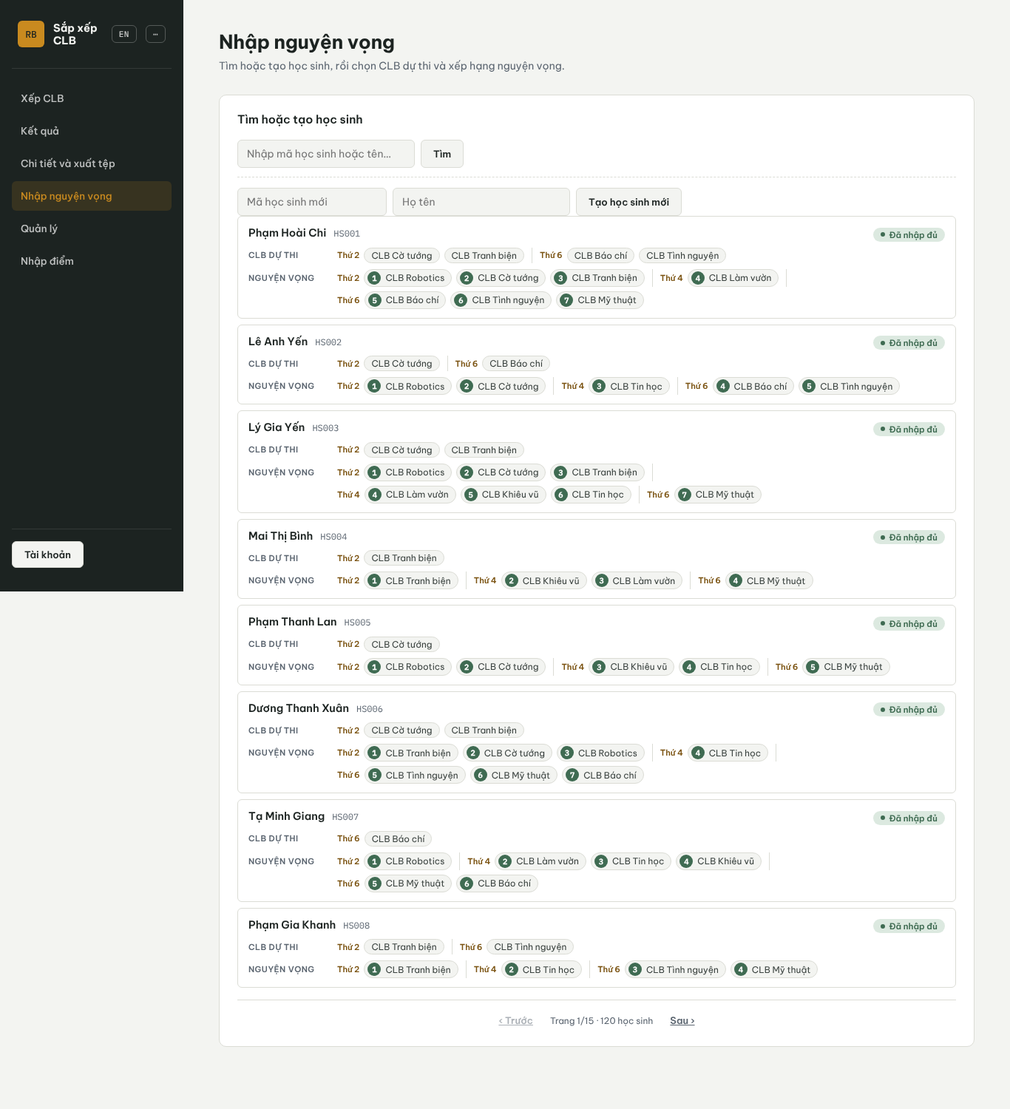
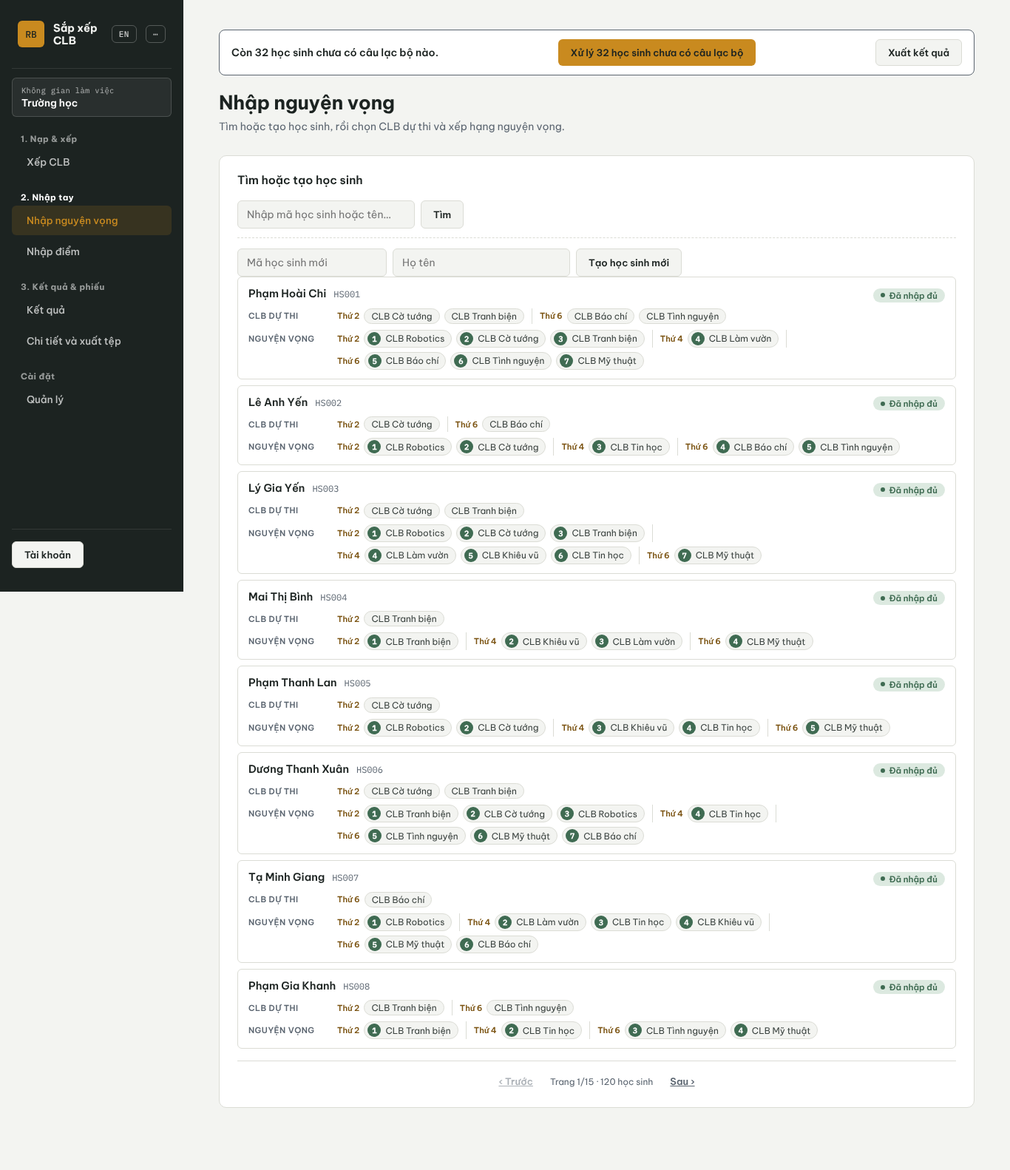
UX1A-L8-A: tài liệu, ảnh chụp, bảng Sau đo được

diff --git a/i18n_loi.js b/i18n_loi.js
@@ -1311,8 +1311,8 @@ window.I18N_ERROR_MESSAGES = {
     "en": "Appeal not accepted: {person_l} {student_id} has no result for session {buoi} yet."
   },
   "so_nhap_canh_bao_wharton_trong": {
-    "vi": "{n} {person_l} (ví dụ {vd}) có từ hai {slot_l} trong cùng một buổi mà chưa điền điểm quyết tâm nào, nên lần chạy xếp sẽ bị chặn. Cách sửa: điền đủ 100 điểm cho mỗi nhóm trong sổ rồi nhập lại, hoặc tắt điểm quyết tâm ở Không gian làm việc → ⋯ → Tính năng sau khi xếp….",
-    "en": "{n} {person_l}(s) (for example {vd}) have two or more {slot_l}s in the same session with no commitment points filled in, so the allocation run will be blocked. To fix it: fill in 100 points for each group in the workbook and import again, or turn commitment points off in Workspace → ⋯ → After-allocation features…."
+    "vi": "{n} {person_l} (ví dụ {vd}) có từ hai {slot_l} trong cùng một buổi mà chưa điền điểm quyết tâm nào, nên lần chạy xếp sẽ bị chặn. Cách sửa: điền đủ 100 điểm cho mỗi nhóm trong sổ rồi nhập lại, hoặc chọn «Chỉ xếp thứ tự» ở Cài đặt (nếu sổ dùng cột Huy chương thì bật chế độ huy chương ở Cài đặt).",
+    "en": "{n} {person_l}(s) (for example {vd}) have two or more {slot_l}s in the same session with no commitment points filled in, so the allocation run will be blocked. To fix it: fill in 100 points for each group in the workbook and import again, or choose \"Ranking only\" in Settings (if the book uses a Medal column, turn on medal mode in Settings)."
   },
   "phieu_nd_phieu_thieu_cau_2": {
     "vi": "{clb}: chưa trả lời câu 2 (mở thêm nhóm được không): không phân loại được, đã bỏ qua",

diff --git a/docs/ke_hoach/ux/chup_luong_chinh.py b/docs/ke_hoach/ux/chup_luong_chinh.py
@@ -1,23 +1,95 @@
-"""UX1a: chụp màn hình luồng thật bằng Chromium (dữ liệu MÔ PHỎNG, hạt giống 42). Ảnh ghi vào docs/ke_hoach/ux/anh/."""
-import os, sys, tempfile
+"""UX1a/UX1A-L8: chụp màn hình luồng thật bằng Chromium VÀ đếm số lần bấm (dữ liệu MÔ PHỎNG, hạt giống 42).
+Ảnh ghi vào docs/ke_hoach/ux/anh/. Không đụng 04_phieu.png / phieu_mau.pdf (chup_phieu.py, nhóm B).
+
+    python docs/ke_hoach/ux/chup_luong_chinh.py
+
+In ra số lần bấm ĐO ĐƯỢC cho: (1) quản trị nạp -> chạy -> tải kết quả; (2) quản trị xử lý em chưa có CLB;
+(3) giáo viên chủ nhiệm lấy kết quả lớp; (4) học sinh tự tra cứu. Một lần "chọn tệp" tính là một lần bấm."""
+import os, sys, tempfile, base64
 GOC=os.path.dirname(os.path.dirname(os.path.dirname(os.path.dirname(os.path.abspath(__file__))))); sys.path.insert(0,GOC)
 from api import PipelineAPI; import browser_host
 from playwright.sync_api import sync_playwright
-OUT=os.path.join(os.path.dirname(os.path.abspath(__file__)), "anh"); d=tempfile.mkdtemp()
-api=PipelineAPI(os.path.join(d,"app.db"))
-url=browser_host.serve(api,GOC,"index.html",open_browser=False)
-pw=sync_playwright().start(); br=pw.chromium.launch(executable_path=os.environ.get("CHROMIUM") or None,args=["--no-sandbox"])
-page=br.new_page(locale="vi-VN",viewport={"width":1366,"height":800}); page.goto(url); page.wait_for_selector("#dropZone")
-page.set_input_files("#fileAny", GOC+"/du_lieu_test/SO_NHAP_DQT_120HS_HOP_LE.xlsx")  # click 1 (chọn tệp)
+OUT=os.path.join(os.path.dirname(os.path.abspath(__file__)), "anh")
+SO=GOC+"/du_lieu_test/SO_NHAP_DQT_120HS_HOP_LE.xlsx"
+os.environ["RBDA_THU_MUC_TAI_VE"]=tempfile.mkdtemp()
+import workspace as ws
+
+
+def moi_api(ten, co_ws=False):
+    d=tempfile.mkdtemp()
+    if co_ws:
+        goc=os.path.join(d,"goc"); os.makedirs(goc); slug=ws.tao(goc,"Trường học",None)
+        return PipelineAPI(ws.duong_dan_db(goc,slug), thu_muc_goc_ws=goc, ws_da_chon=True)
+    return PipelineAPI(os.path.join(d,"app.db"))
+
+
+def _chromium():
+    sys.path.insert(0, os.path.join(GOC, "tests"))
+    try:
+        from _trinh_duyet import CHROMIUM
+        return CHROMIUM
+    except Exception:
+        return None
+
+
+pw=sync_playwright().start(); br=pw.chromium.launch(executable_path=os.environ.get("CHROMIUM") or _chromium(),args=["--no-sandbox"])
+def trang(api, vp=(1366,800)):
+    url=browser_host.serve(api,GOC,"index.html",open_browser=False)
+    p=br.new_page(locale="vi-VN",viewport={"width":vp[0],"height":vp[1]}); p.goto(url); p.wait_for_selector("#dropZone", state="attached"); p.wait_for_timeout(600)
+    return p
+
+# ---- 1. Quản trị: nạp -> chạy -> tải kết quả (và xử lý em chưa có CLB), có không gian làm việc để chụp Cài đặt
+api=moi_api("a", co_ws=True); page=trang(api); lan=0
+page.screenshot(path=OUT+"/01_trang_dau.png")
+page.set_input_files("#fileAny", SO); lan+=1                          # 1: chọn tệp
 page.wait_for_timeout(800); page.screenshot(path=OUT+"/05_sau_chon_tep.png")
-page.locator("#btnImportAll").click()  # click 2
-page.wait_for_function("()=>!document.getElementById('btnRun').disabled", timeout=30000)
-page.wait_for_timeout(800); page.screenshot(path=OUT+"/06_sau_nhap.png")
-page.locator("#btnRun").click()  # click 3
+page.locator("#btnImportAll").click(); lan+=1                          # 2: Nhập sổ
+page.wait_for_function("()=>document.getElementById('viecTiepTheo').dataset.trangThai==='chay'", timeout=30000)
+page.wait_for_timeout(500); page.screenshot(path=OUT+"/06_sau_nhap.png")
+page.locator("#viecTiepTheoNut").click(); lan+=1                       # 3: Chạy sắp xếp (nút của thanh)
+page.wait_for_function("()=>['xu_ly','xuat'].includes(document.getElementById('viecTiepTheo').dataset.trangThai)", timeout=60000)
+page.wait_for_timeout(1200); page.screenshot(path=OUT+"/07_sau_chay.png", full_page=True)
+trang_thai=page.evaluate("()=>document.getElementById('viecTiepTheo').dataset.trangThai")
+nut2="#viecTiepTheoNut2" if trang_thai=="xu_ly" else "#viecTiepTheoNut"
+page.locator(nut2).click(); lan+=1                                     # 4: Xuất kết quả
+page.wait_for_function("()=>document.getElementById('xuatFeedback').textContent.trim()!==''", timeout=30000)
+print("QUAN TRI nap->chay->tai ket qua: %d lan bam (trang thai sau chay: %s)"%(lan,trang_thai))
+page.wait_for_timeout(600); page.screenshot(path=OUT+"/02_co_dl_others.png")
+# em chưa có CLB: một lần bấm trên thanh
+page.reload(); page.wait_for_selector("#dropZone"); page.wait_for_function("()=>document.getElementById('viecTiepTheo').dataset.trangThai==='xu_ly'")
+page.locator("#viecTiepTheoNut").click()
+page.wait_for_selector("#chuaCoChoPanelBody", state="visible"); page.wait_for_timeout(900)
+print("QUAN TRI xu ly em chua co CLB: 1 lan bam tren thanh (sau khi chay)")
+page.screenshot(path=OUT+"/02_co_dl_chua_co_cho.png")
+for tab,ten in (("results","02_co_dl_results"),("fallback","02_co_dl_fallback"),("admin","02_co_dl_admin")):
+    page.locator('.nav-item[data-tab="%s"]'%tab).click(); page.wait_for_timeout(900); page.screenshot(path=OUT+"/%s.png"%ten, full_page=(tab!="admin"))
+page.locator("#ux1aHuyChuong").scroll_into_view_if_needed(); page.screenshot(path=OUT+"/11_cai_dat.png")
+page.evaluate("document.getElementById('ux1aNangCao').open=true"); page.locator("#gt2TieuChiPanel").scroll_into_view_if_needed(); page.wait_for_timeout(500)
+page.screenshot(path=OUT+"/08_tieu_chi.png")
+page.locator('.nav-item[data-tab="results"]').click(); page.wait_for_timeout(600)
+page.locator("#gtTim").fill("HS004"); page.wait_for_timeout(1200); page.screenshot(path=OUT+"/03_tra_cuu_HS004.png", full_page=True)
+page.locator("#btnWorkspace").click(); page.wait_for_timeout(600)
+page.locator("#wsBang tr .menu-khac > summary").first.click(); page.wait_for_timeout(400); page.screenshot(path=OUT+"/10_ws_menu.png")
+page.close()
+
+# ---- 2. Giáo viên chủ nhiệm: đăng nhập -> kết quả lớp mình
+api=moi_api("b"); 
+with open(SO,"rb") as f_so: api.import_so_nhap(base64.b64encode(f_so.read()).decode())
+api.run_pipeline(42)
+ma=[r["student_id"] for r in api.list_students_admin("",1,500)["data"]["rows"]]
+for i,sid in enumerate(sorted(ma)):
+    api.set_student_class(sid, "10A1" if i%2==0 else "10A2")
+api.tao_tai_khoan("quantri","matkhau-gia-1","quan_tri"); api.tao_tai_khoan("gv1","matkhau-gia-1","giao_vien"); api.dang_xuat(); api.dang_nhap("gv1","matkhau-gia-1")
+page=trang(api); page.wait_for_timeout(800)
+tab=page.evaluate("()=>document.querySelector('.nav-item.is-active').dataset.tab"); lan=0
+if page.locator('#kqTang1 [data-kq="lop"]').count(): page.locator('#kqTang1 [data-kq="lop"]').click(); lan+=1
 page.wait_for_timeout(500)
-if page.locator("#runConfirmBar").count(): print("co thanh xac nhan")
-page.wait_for_function("()=>document.getElementById('btnRun').textContent.indexOf('Đang')<0", timeout=60000)
-page.wait_for_timeout(1500); page.screenshot(path=OUT+"/07_sau_chay.png", full_page=True)
-print("tab dang mo:", page.evaluate("()=>document.querySelector('.nav-item.is-active').dataset.tab"))
-print("toast:", page.evaluate("()=>[...document.querySelectorAll('.toast')].map(e=>e.innerText)"))
+if page.locator("#kqLop").count() and page.locator("#kqLop").is_visible():
+    page.locator("#kqLop").select_option(index=1); lan+=1
+page.wait_for_timeout(700); page.screenshot(path=OUT+"/09_gvcn_ket_qua_lop.png")
+print("GV CHU NHIEM: mo app dang o the '%s' (0 lan bam); xem ket qua lop mình: %d lan bam"%(tab,lan))
+page.close()
+
+# ---- 3. Học sinh tự tra cứu bằng mã: 2 lần bấm (không đổi)
+print("HOC SINH tu tra cuu bang ma: 2 lan bam (ma + Xem) — khong doi so voi truoc; do bang test_giao_dien_gt4_man_hoc_sinh.py")
 br.close(); pw.stop()

diff --git a/i18n_errors.py b/i18n_errors.py
@@ -1390,8 +1390,8 @@ MESSAGES = {
 
     # === SG-B: add below ===
     "so_nhap_canh_bao_wharton_trong": {
-        "vi": "{n} {person_l} (ví dụ {vd}) có từ hai {slot_l} trong cùng một buổi mà chưa điền điểm quyết tâm nào, nên lần chạy xếp sẽ bị chặn. Cách sửa: điền đủ 100 điểm cho mỗi nhóm trong sổ rồi nhập lại, hoặc tắt điểm quyết tâm ở Không gian làm việc → ⋯ → Tính năng sau khi xếp….",
-        "en": "{n} {person_l}(s) (for example {vd}) have two or more {slot_l}s in the same session with no commitment points filled in, so the allocation run will be blocked. To fix it: fill in 100 points for each group in the workbook and import again, or turn commitment points off in Workspace → ⋯ → After-allocation features….",
+        "vi": "{n} {person_l} (ví dụ {vd}) có từ hai {slot_l} trong cùng một buổi mà chưa điền điểm quyết tâm nào, nên lần chạy xếp sẽ bị chặn. Cách sửa: điền đủ 100 điểm cho mỗi nhóm trong sổ rồi nhập lại, hoặc chọn «Chỉ xếp thứ tự» ở Cài đặt (nếu sổ dùng cột Huy chương thì bật chế độ huy chương ở Cài đặt).",
+        "en": "{n} {person_l}(s) (for example {vd}) have two or more {slot_l}s in the same session with no commitment points filled in, so the allocation run will be blocked. To fix it: fill in 100 points for each group in the workbook and import again, or choose \"Ranking only\" in Settings (if the book uses a Medal column, turn on medal mode in Settings).",
     },
     "phieu_nd_phieu_thieu_cau_2": {
         "vi": "{clb}: chưa trả lời câu 2 (mở thêm nhóm được không): không phân loại được, đã bỏ qua",

diff --git a/mau_forms_thi_clb/tao_mau_forms.py b/mau_forms_thi_clb/tao_mau_forms.py
@@ -1064,8 +1064,8 @@ def ghi_cai_dat_sau_ket_qua(de):
     w("2. Kiosk: thẻ \"Chi tiết và xuất tệp\" → khung \"Phản hồi của học sinh\" → nút **Nạp biểu mẫu Sau khi xem kết quả**.")
     w("3. Một lần nạp ghi cả phản hồi và khiếu nại; nếu có lỗi giữa chừng thì không ghi gì. Hạn khiếu nại tính theo giờ hoàn "
       "thành do Forms ghi (cột Completion time), nên nạp muộn vẫn công bằng; tệp không có cột đó thì tính theo lúc nạp và có cảnh báo.")
-    w("4. Bật tính năng ở kiosk: Kiosk → Không gian làm việc → ⋯ → Tính năng sau khi xếp… (tick Phản hồi và/hoặc "
-      "Khiếu nại); tắt một cái thì phần đó bị bỏ qua kèm cảnh báo.")
+    w("4. Bật tính năng ở kiosk: chọn Huy chương ở Cài đặt, rồi thẻ \"Chi tiết và xuất tệp\" → khung Sau khi xếp → "
+      "Thu phản hồi và/hoặc Nhận khiếu nại; tắt một cái thì phần đó bị bỏ qua kèm cảnh báo.")
     if bm.dang_giu_ma():
         w("5. Giữ nguyên phần `[mã]` đầu mỗi câu và phần `(mã)` cuối mỗi lựa chọn: kiosk đọc theo các mã đó "
           "để biết câu nào là câu nào; sửa các mã này thì kiosk không nạp được câu đó.")

diff --git a/tests/test_fg7_bieu_mau_sau_ket_qua.py b/tests/test_fg7_bieu_mau_sau_ket_qua.py
@@ -168,7 +168,7 @@ def test_huong_dan_buoc_4_chi_duong_menu_khong_ten_khoa_cau_hinh(tmp_path):
     with open(tmp_path / tmf.TEN_CAI_DAT_SAU_KET_QUA, encoding="utf-8") as f:
         md = f.read()
     buoc4 = next(d for d in md.splitlines() if d.startswith("4. "))
-    assert "Tính năng sau khi xếp" in buoc4
+    assert "Sau khi xếp" in buoc4   # UX1A-L8: hộp "Tính năng sau khi xếp…" đã thành khung "Sau khi xếp" ở thẻ Chi tiết
     assert "fa_phan_hoi" not in buoc4 and "fa_khieu_nai" not in buoc4
 
 

diff --git a/docs/giai_trinh/KICH_BAN_DEMO.md b/docs/giai_trinh/KICH_BAN_DEMO.md
@@ -5,10 +5,10 @@
 
 Chuẩn bị: làm theo `HUONG_DAN_CHAY.md` mục 1; thư mục làm việc trống; tắt thông báo của máy.
 
-1. **Mở phần mềm** (`main.py`). Màn hình: thẻ Xếp, vùng thả tệp trống. Nói: phần mềm chạy ngoại tuyến, không có mô hình AI (`VAI_TRO_AI.md` mục 1).
+1. **Mở phần mềm** (`main.py`). Màn hình: thẻ Xếp, vùng thả tệp trống; thanh **Việc tiếp theo** ở đầu trang đang gợi ý "Nạp sổ". Nói: phần mềm chạy ngoại tuyến, không có mô hình AI (`VAI_TRO_AI.md` mục 1).
 2. **Nạp sổ nhập có lỗi** `du_lieu_test/SO_NHAP_CO_LOI_CO_Y.xlsx`. Màn hình: bảng năm lỗi kèm sheet, dòng, mã học sinh; "không nạp gì". Chỉ một lỗi, đọc thông báo.
-3. **Tạo không gian làm việc bật chế độ huy chương** (chuẩn bị trước buổi trình diễn): màn chọn không gian → **Tạo mới** → tích "Xếp theo loại CLB và huy chương" → mở không gian đó. Làm việc này **trước** khi nạp sổ; sổ mẫu là sổ huy chương và không chạy được ở không gian mặc định.
-4. **Nạp sổ đúng** `du_lieu_test/SO_NHAP_FA_MAU_120HS.xlsx`. Màn hình: "Sẵn sàng nhập: 8 CLB · 2 buổi · 120 học sinh · 829 nguyện vọng · 194 lượt thi", không lỗi chặn.
+3. **Tạo không gian làm việc bật chế độ huy chương** (chuẩn bị trước buổi trình diễn): màn chọn không gian → **Tạo mới** → ở bước 3 chọn lựa chọn **Huy chương** (hoặc mở không gian rồi chọn nó ở nhóm **Cài đặt**; bấm là lưu ngay, có Hoàn tác). Làm việc này **trước** khi nạp sổ; sổ mẫu là sổ huy chương và không chạy được ở không gian mặc định.
+4. **Nạp sổ đúng** `du_lieu_test/SO_NHAP_FA_MAU_120HS.xlsx` (nếu nạp sổ huy chương khi chế độ còn tắt, phần xem trước nói rõ và có nút **Bật chế độ huy chương**). Màn hình: "Sẵn sàng nhập: 8 CLB · 2 buổi · 120 học sinh · 829 nguyện vọng · 194 lượt thi", không lỗi chặn.
 5. **Bấm chạy xếp** (hạt giống 42). Màn hình: các bước `backup → validate → stb_lottery → rbda_cascade → write_results → export` đều xong, 120/120 học sinh có chỗ; không bị chặn, không cần "phóng" điểm.
 6. **Xem kết quả.** Mở thẻ Kết quả; nói: phần mềm dừng và nói rõ khi hồ sơ sai (đã thấy ở bước 2), còn sổ đúng thì chạy thẳng.
 7. **Tra cứu một học sinh nhận nguyện vọng 1 ở một buổi**: gõ `FA001`. Màn hình: Thứ 5 nhận nguyện vọng 1 (`THU_5_4`); Thứ 2 nhận nguyện vọng 2 (`THU_2_4`). Giải thích bằng câu cho học sinh này **đã có sẵn** ở chế độ huy chương (`get_ly_do_ket_qua`): đọc hai câu của buổi Thứ 2.

diff --git a/docs/ke_hoach/CLAUDE_CHI_TIET.md b/docs/ke_hoach/CLAUDE_CHI_TIET.md
@@ -23,7 +23,10 @@
 | `i18n_errors.py` → `tao_i18n_js.py` → `i18n_loi.js` | Thông báo lỗi song ngữ, **một nguồn** | `err`, `phan_hoi_ok`, `phan_hoi_loi` |
 | `browser_host.py`, `recovery.py`, `chan_doan.py`, `main.py` | Máy chủ dự phòng 127.0.0.1, phục hồi, log, điểm vào | |
 | `index.html`, `js/00…08_*.js`, `i18n.js`, `style.css` | Giao diện; gọi backend qua `window.pywebview.api.*`, trả `{ok, data, errors}` | |
-| `tests/` | 331 tệp `test_*.py`, 6.788 ca (`pytest --collect-only`, 17/11/2026, nhánh claude/gt-hoan-thien) | `test_pipeline_core.py`, `test_nhieu_buoi.py::TestTrungKhit`, `test_toi_uu_on_dinh.py`, `test_boc_tham.py`, … |
+| `js/01_khung.js` (UX1A-L2), `js/17_viec_tiep_theo.js` (L1), `js/18_cai_dat.js` (L2b) | UX1 điều hướng và cài đặt: 4 nhóm thanh bên (`capNhatNhomDieuHuong`, nhóm tự ẩn theo thuộc tính hidden / vai giáo viên; mọi `.nav-item[data-tab]` giữ nguyên); thanh "Việc tiếp theo" `#viecTiepTheo` (`capNhatViecTiepTheo`, 5 trạng thái, nút phụ `#viecTiepTheoNut2`); Cài đặt = ba thẻ (`ux1aTaoThe` dùng chung ở trang Cài đặt, mục ⋯ "Cài đặt…" và bước 3 trình tạo workspace; `ux1aVeCaiDatSong` lưu ngay + Hoàn tác; sửa tại chỗ `ux1aVeSanSang`; việc sau khi xếp `ux1aVeSauXep` ở thẻ Chi tiết, chỉ chế độ huy chương) | `ux1aTaoThe`, `ux1aVeCaiDatSong`, `ux1aKiemSanSang`, `ux1aVeSauXep`, `capNhatViecTiepTheo` |
+| `api_quan_ly.py` (UX1A-L2b) | `get_san_sang_huy_chuong` (đọc: CLB thiếu loại, buổi thiếu CLB Tự do, thiếu điểm sàn) · `dat_loai_clb` (ghi một CLB, dùng lại hàm ghi_thuoc_tinh_clb của fa_daa); cả hai trong `phan_quyen.py` | `get_san_sang_huy_chuong`, `dat_loai_clb` |
+| `so_nhap.py`, `api_nhap.py` (UX1A-L5, L5b) | Chỉ thông điệp và lớp đọc: `xem_truoc_so_nhap` nói sổ có cột Huy chương/Loại mà chế độ tắt (mã cảnh báo so_nhap_canh_bao_huy_chuong_che_do_tat, cờ co_cot_huy_chuong của dữ liệu đọc); `so_nhap.chuan_hoa_chu_huy_chuong` đổi Vàng/Bạc/Đồng về 60/30/10 khi chế độ huy chương (fa_daa) bật; `tao_so_nhap_mau(output_path, kieu)` | `chuan_hoa_chu_huy_chuong`, `tao_so_nhap_mau` |
+| `tests/` | 339 tệp `test_*.py`, 6.845 ca (`pytest --collect-only`, 18/11/2026, nhánh claude/ux1-a-giao-dien; UX1A thêm 5 tệp giao diện/backend: `test_giao_dien_ux1_*.py`, `test_ux1_*.py`) | `test_pipeline_core.py`, `test_nhieu_buoi.py::TestTrungKhit`, `test_toi_uu_on_dinh.py`, `test_boc_tham.py`, … |
 | `du_lieu_test/` (gồm `mo_phong_fa_daa.py`, FA-10: chỉ in bảng số, nhãn "SỐ LIỆU MÔ PHỎNG"), `mau_csv/`, `docs/`, `BAN_GIAO.md` | Bộ dữ liệu mô phỏng, script đo, mẫu nhập, tài liệu cơ chế, nhật ký 25 lỗi đã sửa | |
 
 ## 12 ngành đích (mã dùng trong mọi tệp)

diff --git a/poster/DU_LIEU_POSTER.md b/poster/DU_LIEU_POSTER.md
@@ -33,7 +33,7 @@ Mã ô ghi ngay trong khung và trong `poster_huong_dan.pdf`.
 │                │ │ H3 tên đề tài                            │ │                │
 ├────────────────┤ ├─────────────────────────┬────────────────┤ ├────────────────┤
 │ 02 Dùng thế nào│ │ [ảnh tab Kết quả]       │ S1  0          │ │ 06 Đã kiểm     │
-│ [ảnh Vận hành] │ │                         │ S2  0,14 giây  │ │    chứng       │
+│ [ảnh Xếp CLB] │ │                         │ S2  0,14 giây  │ │    chứng       │
 │ T2             │ │ G1                      │ S3  816        │ │ [2 biểu đồ] P5 │
 ├────────────────┤ ├─────────────────────────┴────────────────┤ │                │
 │ 03 Xem thử     │ │ 04 Cách hoạt động  [sơ đồ + bốc thăm]     │ ├────────────────┤
@@ -120,10 +120,10 @@ thay (sửa `stats` trong `tao_poster.py`).
 | ⚠ | **Chưa có khảo sát → không có số hiện trạng.** Viết điều em tự quan sát, dạng định tính. Không viết "đa số", "…% học sinh". Không nhắc tên trường. |
 | Bối cảnh có trong repo | Trường có cả CLB thi tuyển lẫn CLB không thi (lý do sinh ra lớp 4 — `CO_CHE_THUAT_TOAN.md`); cách xét thay thế là xét theo thứ tự đăng ký (lớp 1) |
 
-### Ảnh tab Vận hành (đã có) + T2 · Dùng thế nào
+### Ảnh thẻ Xếp CLB (đã có) + T2 · Dùng thế nào
 | | |
 |---|---|
-| Ảnh | `hinh/giao_dien_van_hanh.png` — màn hình Vận hành thật |
+| Ảnh | `hinh/giao_dien_van_hanh.png` — màn hình Xếp CLB thật (nhóm "1. Nạp & xếp", có thanh "Việc tiếp theo") |
 | Câu hỏi gợi ý | Người vận hành làm những bước nào, theo thứ tự? Mỗi bước một dòng, bắt đầu bằng động từ. |
 | Độ dài | 3–5 dòng, mỗi dòng ≤ 10 từ |
 | Sự thật về các bước (từ giao diện) | Kéo thả tệp Excel/CSV — phần mềm tự nhận tệp nào là danh sách CLB, chọn CLB thi, nguyện vọng · **Cảnh báo dữ liệu** trước khi chạy (bộ mẫu: 0 cảnh báo) · Nhập điểm theo CLB · Bấm **Chạy sắp xếp** · Xem tab Kết quả · **Xuất CSV** tổng + từng CLB (bộ mẫu: 11 tệp) — `index.html`, `README.md`, `SO_LIEU_DA_KIEM_CHUNG.md` §2 |

diff --git a/docs/ke_hoach/ux/UX1_RA_SOAT.md b/docs/ke_hoach/ux/UX1_RA_SOAT.md
@@ -31,6 +31,24 @@ Không có lỗi JavaScript trong toàn bộ lượt chụp.
 | Học sinh | Tự tra cứu bằng mã | Mã + Xem = **2** | 2 | Ổn |
 | Ban giám hiệu | Một trang tổng hợp để đọc/in | Không có nút riêng; phải ghép thẻ Tóm tắt + Bảng điều khiển (thẻ Quản lý) | **1** | Thiếu "Báo cáo tổng hợp" |
 
+### 2b. Sau UX1A — số lần bấm ĐO ĐƯỢC (18/11/2026, sổ mẫu 120 học sinh MÔ PHỎNG, hạt giống 42)
+
+Đo bằng `docs/ke_hoach/ux/chup_luong_chinh.py` (Chromium thật, in số lần bấm; ảnh mới ở `anh/`). "Chọn tệp" tính một lần bấm.
+Các luồng chính cũng có test: `tests/test_giao_dien_ux1_tiep_theo.py` (4 lần bấm), `tests/test_giao_dien_ux1_dieu_huong.py`.
+
+| Người dùng | Việc | Trước | **Sau (đo)** | Mục tiêu | Đạt? | Nhờ đâu |
+|---|---|---|---|---|---|---|
+| GV phụ trách | Nạp sổ → chạy → tải kết quả Excel | **5** | **4** (chọn tệp, Nhập sổ, nút "Chạy sắp xếp" của thanh, nút "Xuất kết quả") | 4 | có | Thanh "Việc tiếp theo" (L1); nút xuất của thanh xuất luôn bằng tuỳ chọn mặc định (L3) |
+| GV phụ trách | Xử lý các em chưa có CLB (sổ mẫu còn 12 em chưa có chỗ) | **4–6** | **1** sau khi chạy xong (nút "Xử lý n …" mở bảng) | 2 | có | Thanh + ô "Cần xử lý" bấm được (L1) |
+| GV chủ nhiệm | Lấy kết quả lớp mình | **3** | **≤ 2** (mở app đã ở thẻ Kết quả; "Theo lớp" → chọn lớp; 0–1 lần nếu app nhớ cách xem lần trước) | 2 | có | Giáo viên vào thẳng "Kết quả" (L2) |
+| Học sinh | Tự tra cứu bằng mã | **2** | **2** | 2 | có (không đổi) | — |
+| GV phụ trách | Phiếu PDF cho **một** em | ≈ **8** | *nhóm B, sau tích hợp* | 4 | — | L6 (nhóm B) |
+| Ban giám hiệu | Báo cáo tổng hợp | không có | *nhóm B, sau tích hợp* | 1 | — | L4-B (nhóm B) |
+
+Ghi chú: sổ mẫu 120 học sinh luôn còn một số em chưa có CLB nên sau khi chạy thanh dừng ở "Xử lý n …"; nút phụ "Xuất kết quả"
+trên thanh vẫn tải ngay (cũng 4 lần bấm). Bảng "ba thẻ" ở Cài đặt: đổi cách đặt thích = **1** lần bấm (trước: mở menu ⋯ → hộp
+→ tick → Lưu ≈ 5), có Hoàn tác.
+
 ## 3. Vấn đề phát hiện (xếp theo mức ảnh hưởng)
 
 1. **Không có "việc tiếp theo".** Chạy xong, màn hình báo "88/120 có CLB" nhưng không có nút sang Kết quả, Xuất, hay xử lý 32 em (`anh/07_sau_chay.png`).

diff --git a/docs/giai_trinh/HUONG_DAN_CHAY.md b/docs/giai_trinh/HUONG_DAN_CHAY.md
@@ -44,9 +44,7 @@ không kèm mã thì bị từ chối `403`. **Chưa kiểm:** cửa sổ pywebv
 
 **Bật chế độ huy chương trước khi nạp.** Sổ `du_lieu_test/SO_NHAP_FA_MAU_120HS.xlsx` dành cho không gian làm việc xếp theo loại CLB và
 huy chương (các cột 60/30/10 là huy chương, không phải điểm quyết tâm). Không gian mặc định không có chế độ này và sẽ chặn lần chạy
-(`wharton_ho_so_chua_hop_le`). Cách làm: mở màn chọn không gian làm việc, bấm **Tạo mới**, tích **"Xếp theo loại CLB và huy chương"**,
-đặt tên rồi mở không gian vừa tạo. Chế độ này chọn **lúc tạo**; menu **⋯ → "Tính năng sau khi xếp…"** chỉ bật thêm tính năng cho
-không gian đã có chế độ này (với không gian thường, hộp đó báo đang tắt). Trong mã, cấu hình tương đương là `rules.fa_daa = true`.
+(`wharton_ho_so_chua_hop_le`). Cách làm (chế độ "Xếp theo loại CLB và huy chương"): vào nhóm **Cài đặt** (thẻ **Quản lý**), ở đầu trang chọn thẻ **Huy chương** (câu hỏi "Học sinh cho biết mình muốn CLB nào nhiều hơn bằng cách nào?"); bấm là lưu ngay, có nút **Hoàn tác** trong 10 giây. Cũng chọn được ở bước 3 khi tạo không gian làm việc mới, hoặc ở menu **⋯ → Cài đặt…**. Nếu quên và kéo sổ vào trước, phần xem trước sẽ nói sổ có cột Huy chương mà chế độ đang tắt, kèm nút **Bật chế độ huy chương**. Dữ liệu CLB chưa đủ (loại CLB, mỗi buổi một CLB Tự do) thì thẻ Huy chương mở bảng "còn thiếu" để sửa tại chỗ cho tới khi hiện *Sẵn sàng*; các tính năng sau khi xếp (mở vòng 2, khiếu nại, điểm danh, danh sách chờ, phản hồi) là các nút ở khung **Sau khi xếp** của thẻ **Chi tiết và xuất tệp**, chỉ hiện ở chế độ này. Trong mã, cấu hình tương đương là `rules.fa_daa = true`. Ô huy chương của sổ nhận cả **Vàng / Bạc / Đồng** lẫn 60 / 30 / 10.
 Không dùng nút "Phóng cho đủ 100": nút đó dành cho điểm quyết tâm và sẽ biến huy chương thành điểm tự đặt.
 
 Rồi trong thẻ **Xếp**: kéo tệp `du_lieu_test/SO_NHAP_FA_MAU_120HS.xlsx` vào vùng thả tệp. Việc tương đương qua API:

diff --git a/CHANGELOG.md b/CHANGELOG.md
@@ -1,5 +1,12 @@
 # CHANGELOG
 
+## 2026-11-18 — UX1A-L8-A: tài liệu, ảnh chụp, bảng "Sau" đo được
+
+- `HUONG_DAN_SU_DUNG.md`: bảng điều hướng thành 4 nhóm; mục mới về thanh "Việc tiếp theo", Cài đặt (ba thẻ), sổ mẫu có huy chương, Vàng/Bạc/Đồng; bỏ số thứ tự thẻ cũ (01–06). `docs/giai_trinh/HUONG_DAN_CHAY.md`, `KICH_BAN_DEMO.md`, `KICH_BAN_VIDEO.md`: cách bật chế độ huy chương theo giao diện mới. `docs/ke_hoach/CLAUDE_CHI_TIET.md`: bản đồ mã (`js/17`, `js/18`, `get_san_sang_huy_chuong`, `dat_loai_clb`, lớp đọc huy chương), số tệp/ca test (339 / 6.845).
+- Chữ hiển thị trỏ tới hộp "Tính năng sau khi xếp…" đã bỏ nay trỏ tới Cài đặt / khung "Sau khi xếp": `i18n_errors.py` (`so_nhap_canh_bao_wharton_trong`), `mau_forms_thi_clb/tao_mau_forms.py` (+ `tests/test_fg7_bieu_mau_sau_ket_qua.py`).
+- Poster: `poster/DU_LIEU_POSTER.md` (tên thẻ), ảnh giao diện chụp lại (`poster/hinh/giao_dien_*.png`). CHƯA dựng lại `poster_*.pdf/pptx` (cần python-pptx, matplotlib: thư viện chưa có trong môi trường) -> mục "Cần Truong".
+- `docs/ke_hoach/ux/chup_luong_chinh.py` viết lại: chụp ảnh mới VÀ in số lần bấm; ảnh trong `docs/ke_hoach/ux/anh/` thay mới (`11_ws_tinh_nang.png` bỏ, `11_cai_dat.png` thêm; `04_phieu.png`, `phieu_mau.pdf` KHÔNG đụng: nhóm B). `UX1_RA_SOAT.md` mục 2b: bảng "Sau" với số đo (nạp→chạy→tải = 4; xử lý em chưa có CLB = 1; GV chủ nhiệm ≤ 2; học sinh 2); dòng phiếu PDF và báo cáo BGH ghi "nhóm B, sau tích hợp".
+
 ## 2026-11-18 — UX1A-L5b: ô huy chương nhận Vàng/Bạc/Đồng
 
 - Chế độ huy chương BẬT: ô huy chương của Sổ nhập nhận `Vàng/Bạc/Đồng` (không phân biệt hoa/thường, dấu; cả `vang/bac/dong`, `gold/silver/bronze`), đổi về 60/30/10 ngay ở lớp đọc (`so_nhap.chuan_hoa_chu_huy_chuong`, gọi trong `api_nhap._doc_so_nhap`); giá trị lưu (`wharton_bids`), `fa_daa.kiem_ho_so_huy_chuong` và kết quả xếp không đổi. Chữ lạ vẫn báo `fa_huy_chuong_gia_tri_sai`. Chế độ tắt: không ánh xạ (như cũ). Đường Forms đi qua sổ nhập nên được phủ cùng chỗ.
